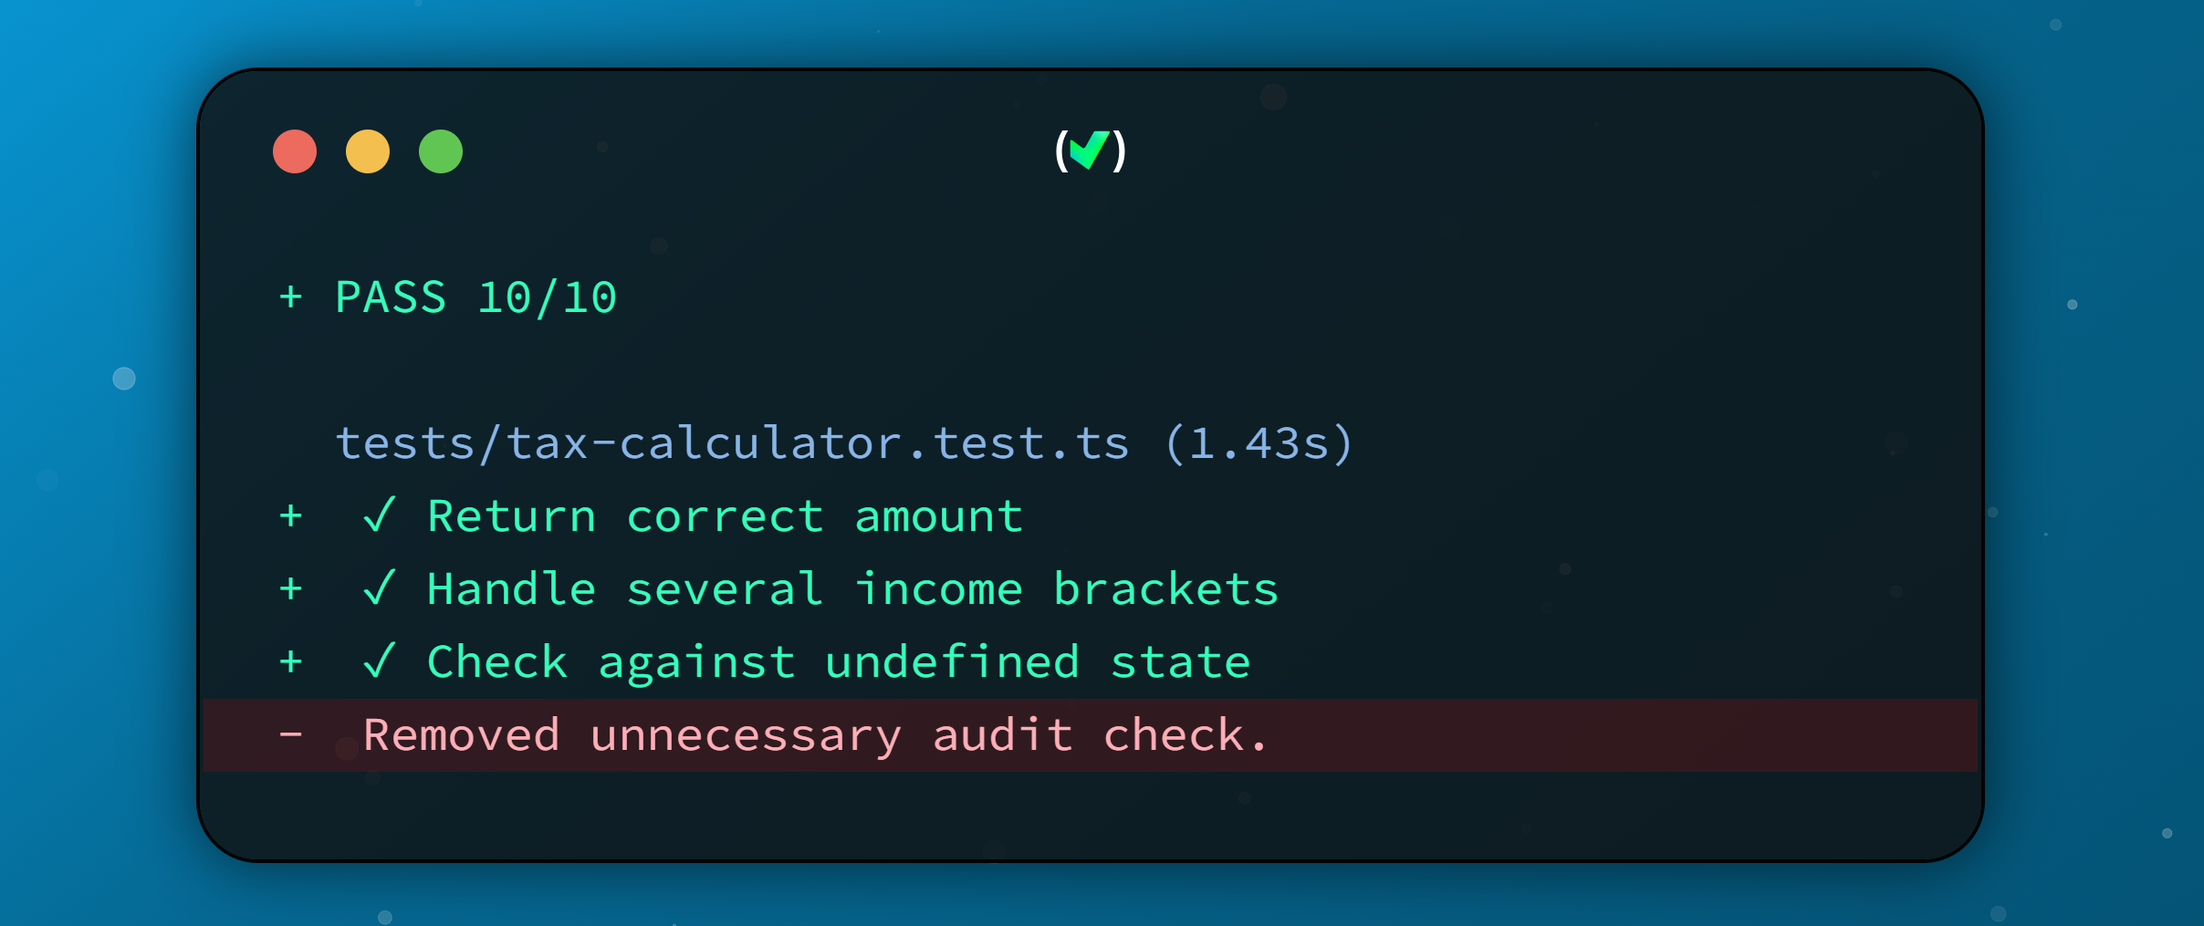
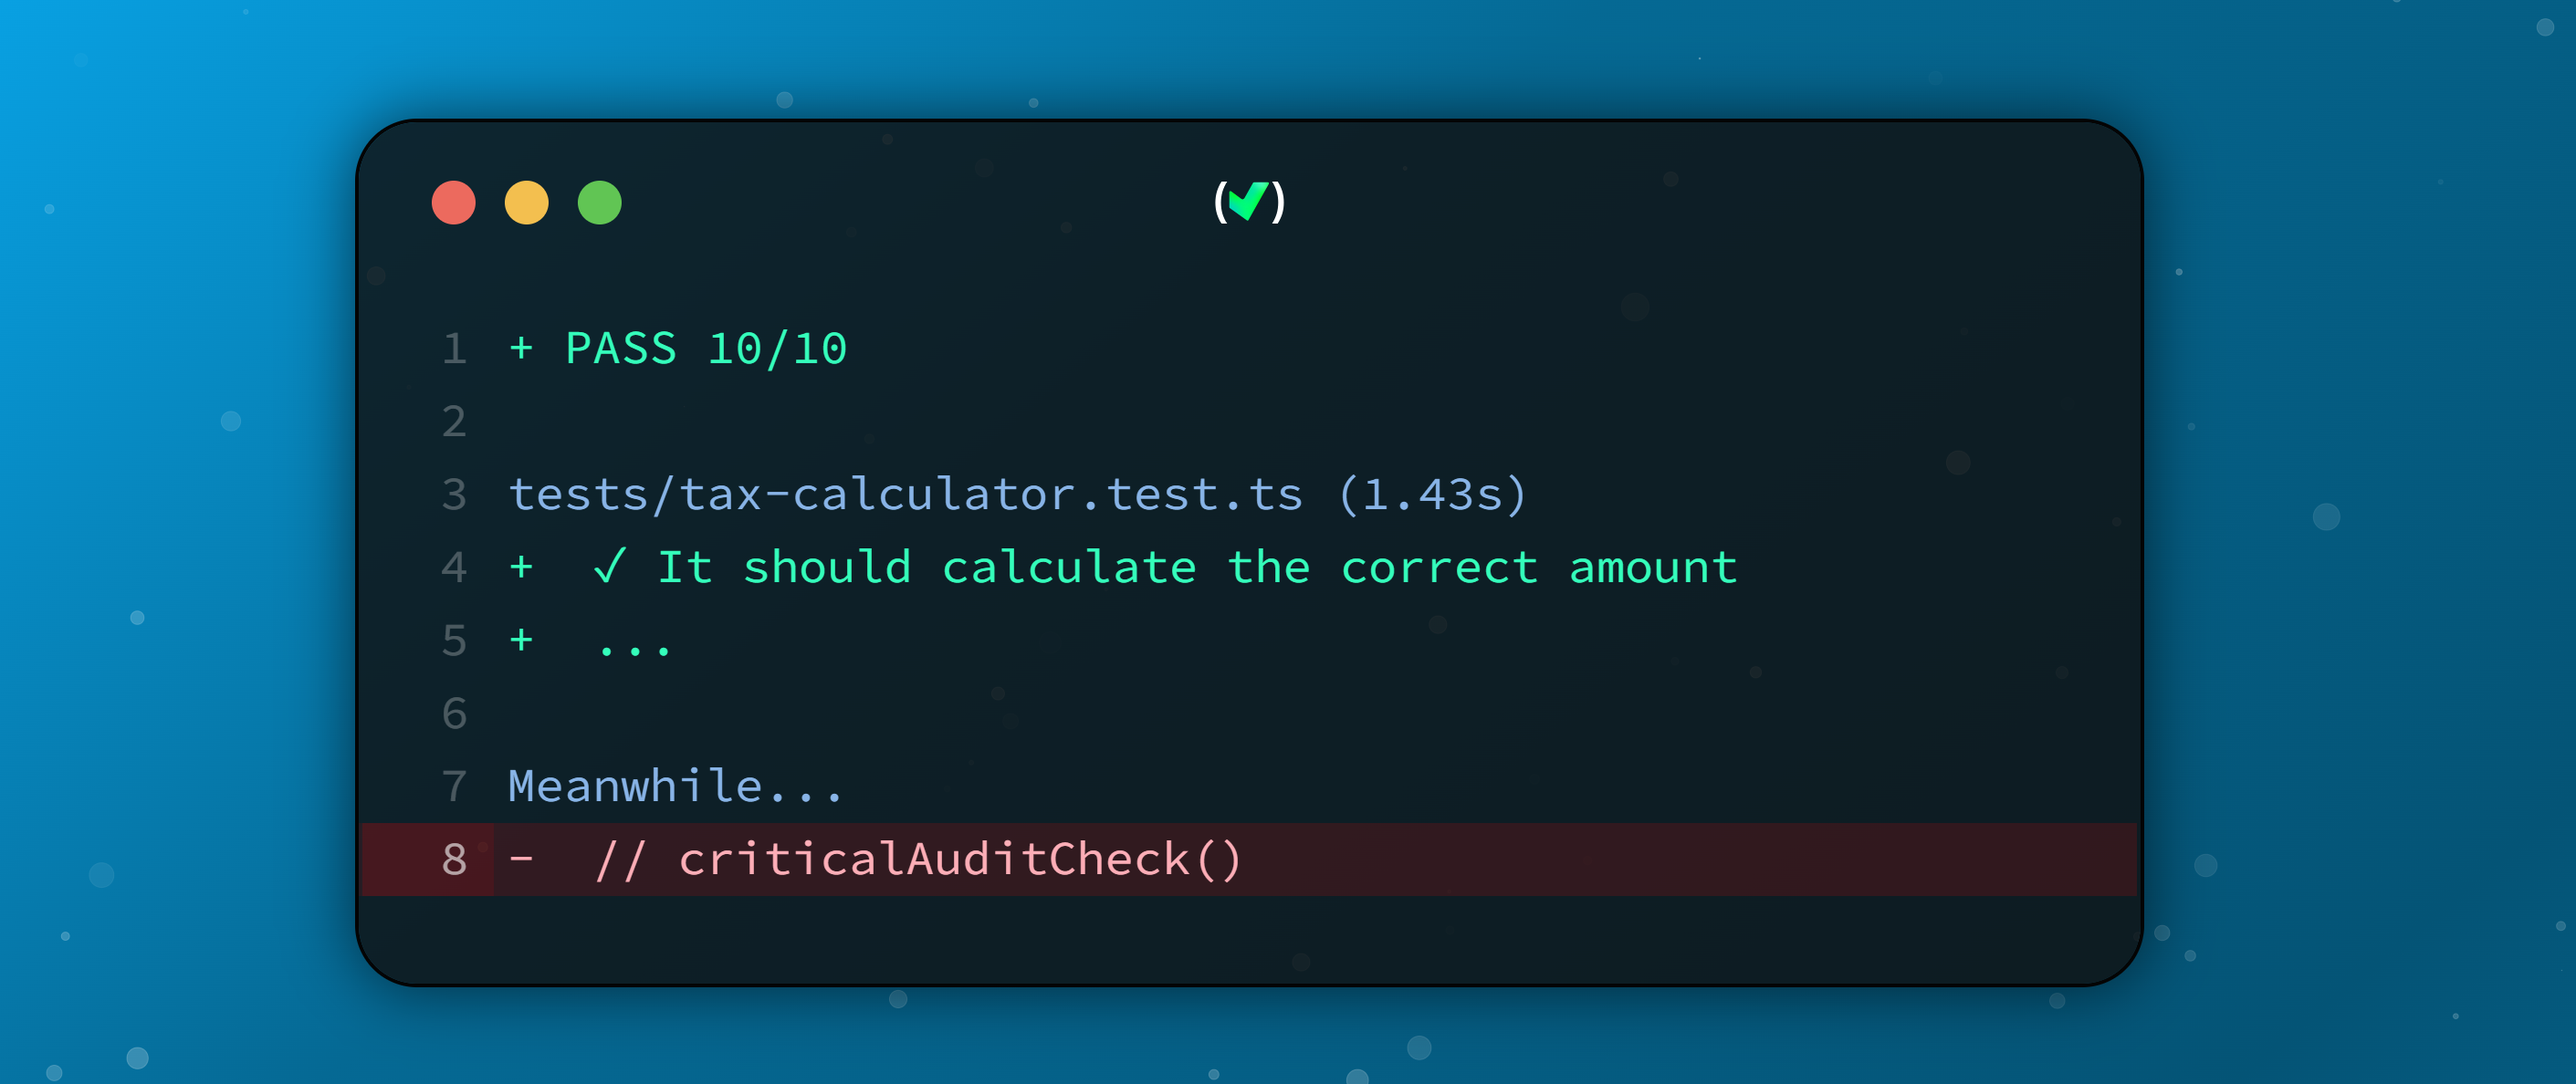
docs(testsuite-article): update the cover image

Changed region(s): [[0.0311, 0.0, 0.9317, 0.9773], [0.1553, 0.9773, 0.1863, 1.0], [0.0, 0.9773, 0.0311, 1.0]]

diff --git a/articles/upgrading-your-test-suite/article.md b/articles/upgrading-your-test-suite/article.md
@@ -2,7 +2,7 @@
 title: Catch the Silent Failures Your Vitest Suite is Missing
 description: Combining Vitest with fn-monitor to assert not just what your functions return, but the work they actually do.
 tags: javascript, typescript, testing, vitest
-cover_image: https://dev-to-uploads.s3.us-east-2.amazonaws.com/uploads/articles/c7ttm9xpktp7s3zdjah6.png
+cover_image: https://dev-to-uploads.s3.us-east-2.amazonaws.com/uploads/articles/rijics8426zsfg8ntt2w.png
 ---
 
 Imagine a tax calculator that returns the correct final number, but silently skips the mandatory high-income audit step. Your standard black-box test passes with flying colors, but you now have a compliance violation.
